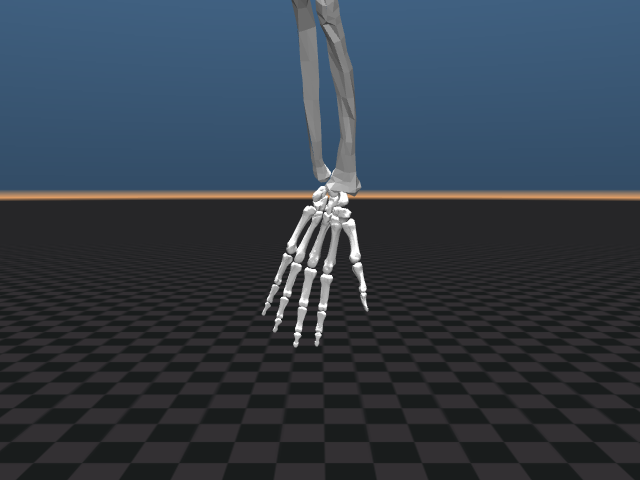
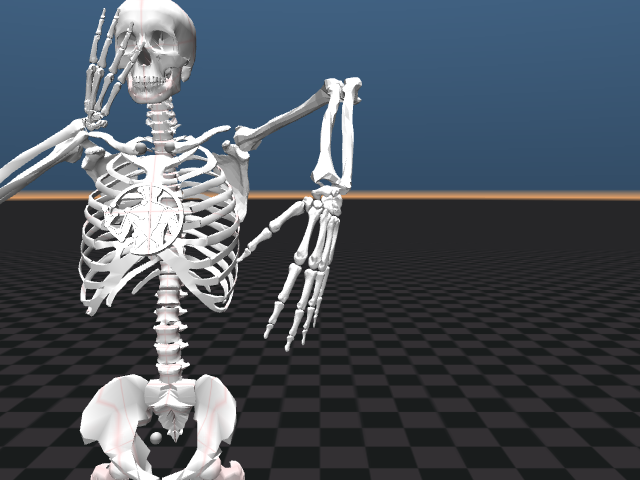
Aim the sweeping palm toward the chest using forearm and wrist rotation

Changed region(s): [[0.0, 0.0, 1.0, 1.0], [0.9688, 0.9688, 1.0, 1.0]]

diff --git a/myo_scuba.py b/myo_scuba.py
@@ -92,9 +92,14 @@ class MyoScuba:
     def right_palm_normal(self, data):
         return self.palm_normal(data, 'r')
 
+    def left_palm_target(self, data):
+        """Aim horizontally toward the torso center, including the lateral offset."""
+        inward = data.geom('thorax_coll1').xpos-self.hand_position(data, 'l')
+        inward[2] = 0
+        return inward/max(np.linalg.norm(inward), 1e-8)
+
     def left_palm_alignment(self, data):
-        # The chest is behind the sweeping hand at +Y in model coordinates.
-        return float(self.palm_normal(data, 'l') @ np.array([0, 1, 0]))
+        return float(self.palm_normal(data, 'l') @ self.left_palm_target(data))
 
     def right_palm_alignment(self, data):
         nose = data.body('head').xpos + np.array([0, -.09, -.035])
@@ -159,6 +164,32 @@ class MyoScuba:
             self.left_ids, guess = self.solve_arm('l', point, guess)
             poses.append(guess.copy())
         self.left_poses = np.array(poses)
+        self.retarget_left_palms()
+
+    def retarget_left_palms(self):
+        """Turn the palm inward using forearm/wrist joints; preserve upper-arm poses."""
+        wrist_ids = self.left_ids[4:]
+        bounds = self.model.jnt_range[wrist_ids]
+        for pose in self.left_poses:
+            q = self.base.copy()
+            q[self.left_ids] = pose
+            self.kin.qpos[:] = self.constrain(q)
+            mujoco.mj_forward(self.model, self.kin)
+            hand_point = self.hand_position(self.kin, 'l')
+            normal = self.left_palm_target(self.kin)
+            initial = pose[4:].copy()
+
+            def residual(wrist):
+                q[wrist_ids] = wrist
+                self.kin.qpos[:] = self.constrain(q)
+                mujoco.mj_forward(self.model, self.kin)
+                return np.r_[3.0*(self.palm_normal(self.kin, 'l')-normal),
+                             20*(self.hand_position(self.kin, 'l')-hand_point),
+                             .01*(wrist-initial)]
+
+            result = least_squares(residual, initial,
+                bounds=(bounds[:, 0]+1e-5, bounds[:, 1]-1e-5), max_nfev=100)
+            pose[4:] = result.x
 
     def target(self, t):
         phase = 2*np.pi*.4*t
@@ -258,7 +289,7 @@ def main():
     else:
         import mujoco.viewer
         with mujoco.viewer.launch_passive(sim.model, sim.data) as viewer:
-            viewer.cam.azimuth = -90
+            viewer.cam.azimuth = 90
             viewer.cam.elevation = -5
             viewer.cam.distance = 3
             viewer.cam.lookat[:] = [0, .1, 1]

diff --git a/render_myo_scuba.py b/render_myo_scuba.py
@@ -7,7 +7,7 @@ from PIL import Image
 def main():
     sim = MyoScuba()
     camera = mujoco.MjvCamera()
-    camera.azimuth, camera.elevation, camera.distance = -90, -5, 2.8
+    camera.azimuth, camera.elevation, camera.distance = 90, -5, 2.8
     camera.lookat[:] = [0, .1, 1]
     frames = []
     closeup = None
@@ -20,7 +20,7 @@ def main():
                 frames.append(Image.fromarray(renderer.render().copy()))
                 if closeup is None:
                     hand_camera = mujoco.MjvCamera()
-                    hand_camera.azimuth = -105
+                    hand_camera.azimuth = 105
                     hand_camera.elevation = -5
                     hand_camera.distance = .9
                     hand_camera.lookat[:] = [-.10, .05, 1.50]
@@ -30,7 +30,7 @@ def main():
                     closeup = Image.fromarray(renderer.render().copy())
                     hand_camera.lookat[:] = sim.hand_position(sim.data, 'l')
                     hand_camera.distance = .6
-                    hand_camera.azimuth = -90
+                    hand_camera.azimuth = 90
                     renderer.update_scene(sim.data, camera=hand_camera, scene_option=options)
                     left_closeup = Image.fromarray(renderer.render().copy())
     output = ROOT/'results'

diff --git a/tests/test_myo_scuba.py b/tests/test_myo_scuba.py
@@ -38,6 +38,10 @@ class MyoScubaTests(unittest.TestCase):
             sim.kin.qpos[:] = sim.target(t)
             mujoco.mj_forward(sim.model, sim.kin)
             self.assertGreater(sim.left_palm_alignment(sim.kin), 0.95)
+        # At the outer edge, +Y alone faces away from the torso center.
+        sim.kin.qpos[:] = sim.target(.625)
+        mujoco.mj_forward(sim.model, sim.kin)
+        self.assertLess(sim.palm_normal(sim.kin, 'l')[0], -0.5)
 
     def test_physics_drives_the_scuba_with_muscle_excitation(self):
         sim = self.sim

diff --git a/README.md b/README.md
@@ -81,7 +81,11 @@ joint forces or external body forces driving the dance.
 The right hand stays near the face with its palm turned toward the nose.
 Arm inverse kinematics targets both hand position and palm orientation, using
 forearm pronation/supination and the wrist joints. The left hand sweeps horizontally in front
-of the chest with its palm facing toward the body, and the knees bend alternately.
+of the chest with its palm following the torso center, and the knees bend alternately.
+A forearm/wrist adjustment turns the sweeping palm inward as the hand moves
+out to the side; shoulder and elbow reference poses stay fixed during this
+adjustment. Orientation checks use the direction to the chest rather than a
+fixed world axis. The viewer and previews open from the front of the skeleton.
 The left model is mirrored, so its local palmar normal is +Z rather than the
 right hand's -Z; flexor/extensor attachment sites determine each side. Fingers follow neutral reference
 angles; this does not yet reproduce an exact nose pinch. This version uses a
